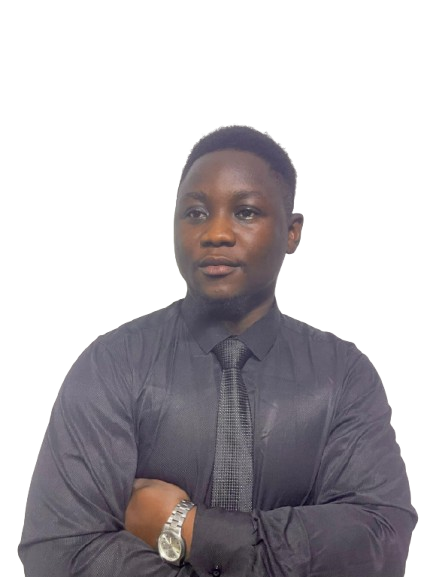
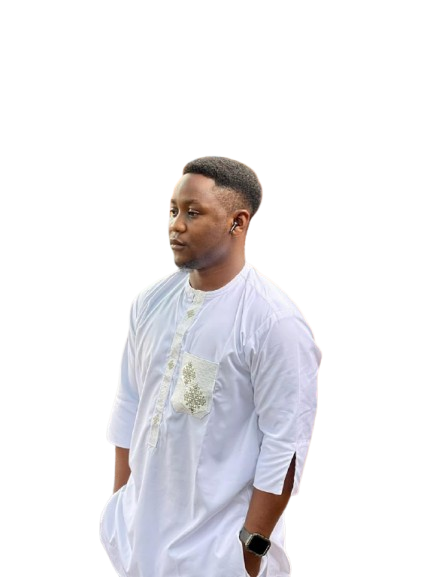
new changes

diff --git a/src/App.css b/src/App.css
@@ -217,7 +217,7 @@ a {
 /* aboutme */
 /* Light theme overrides */
 .light-theme .about-img {
-  background-color: #f3f3f3;
+  background-color: #5f5b5b;
   box-shadow: 0 0 5px #888787, 0 0 10px #858383;
 }
 
